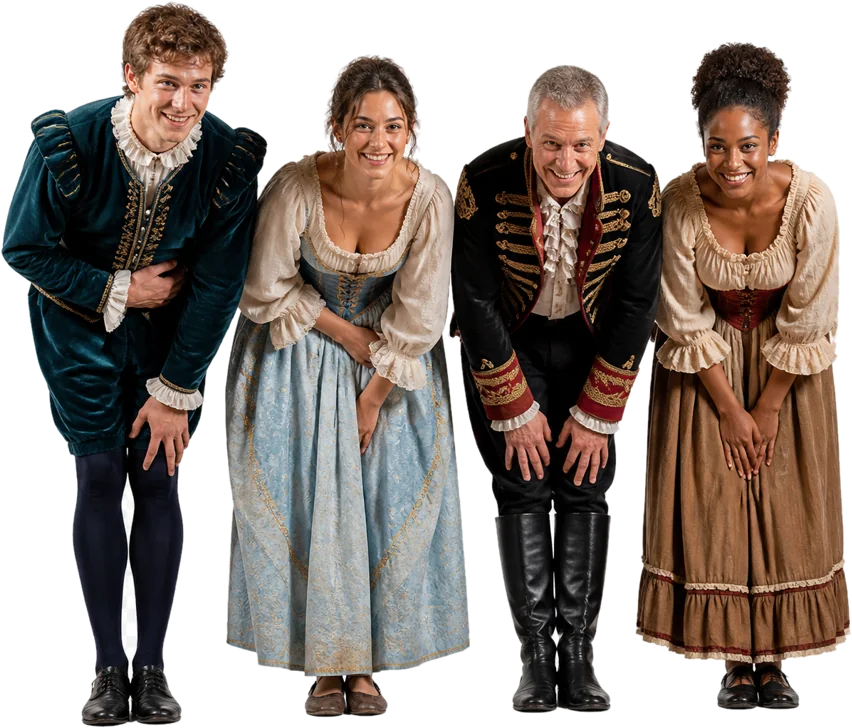
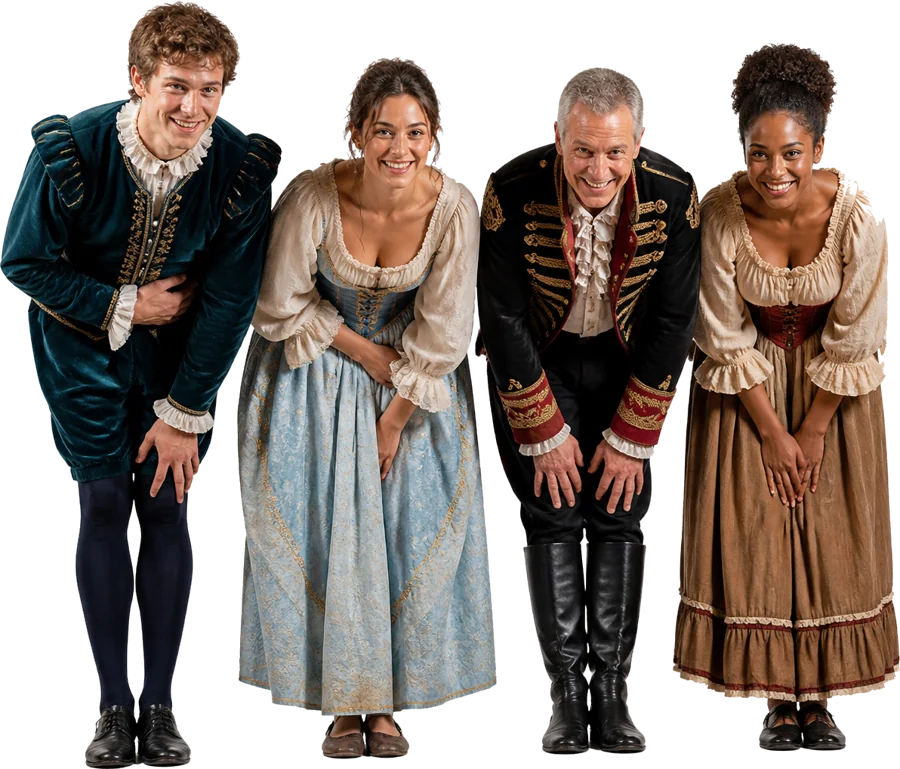
Verbeugung: bessere Fassung mit echter Transparenz

diff --git a/site/index.html b/site/index.html
@@ -11,9 +11,9 @@
 <link rel="preconnect" href="https://fonts.googleapis.com">
 <link rel="preconnect" href="https://fonts.gstatic.com" crossorigin>
 <link href="https://fonts.googleapis.com/css2?family=Cormorant+Garamond:ital,wght@0,400;0,500;0,600;1,400;1,500&family=Jost:wght@300;400;500&family=Caveat:wght@500&display=swap" rel="stylesheet">
-<link rel="stylesheet" href="assets/styles.css?v=20261122104428">
-<link rel="stylesheet" href="assets/galerie.css?v=20261122104428">
-<link rel="stylesheet" href="assets/gold.css?v=20261122104428">
+<link rel="stylesheet" href="assets/styles.css?v=20261122105136">
+<link rel="stylesheet" href="assets/galerie.css?v=20261122105136">
+<link rel="stylesheet" href="assets/gold.css?v=20261122105136">
 <script>try{var d=localStorage.getItem('design');if(d==='galerie'||d==='gold'){document.documentElement.dataset.design=d;document.write('<link id="galerie-schrift" rel="stylesheet" href="https://fonts.googleapis.com/css2?family=Inter+Tight:wght@400;500;600&family=IBM+Plex+Mono:wght@400;500&display=swap">')}}catch(e){}</script>
 </head>
 <body class="seite-start">
@@ -203,7 +203,7 @@
 
 <section class="karte-ticket">
   <div class="huelle">
-    <img class="ticket-figur" src="assets/img/neu/verbeugung.webp" alt="" aria-hidden="true" width="852" height="728" loading="lazy">
+    <img class="ticket-figur" src="assets/img/neu/verbeugung.webp" alt="" aria-hidden="true" width="900" height="769" loading="lazy">
     <div class="ticket erscheint">
       <div>
         <span class="etikett">Ihre Anfrage</span>
@@ -249,6 +249,6 @@
   </div>
 </footer>
 <button class="design-wahl" type="button" aria-label="Design wechseln"><i aria-hidden="true"></i>Design: <b>Bühne</b></button>
-<script src="assets/script.js?v=20261122104428"></script>
+<script src="assets/script.js?v=20261122105136"></script>
 </body>
 </html>

diff --git a/site/datenschutz.html b/site/datenschutz.html
@@ -11,9 +11,9 @@
 <link rel="preconnect" href="https://fonts.googleapis.com">
 <link rel="preconnect" href="https://fonts.gstatic.com" crossorigin>
 <link href="https://fonts.googleapis.com/css2?family=Cormorant+Garamond:ital,wght@0,400;0,500;0,600;1,400;1,500&family=Jost:wght@300;400;500&family=Caveat:wght@500&display=swap" rel="stylesheet">
-<link rel="stylesheet" href="assets/styles.css?v=20261122104428">
-<link rel="stylesheet" href="assets/galerie.css?v=20261122104428">
-<link rel="stylesheet" href="assets/gold.css?v=20261122104428">
+<link rel="stylesheet" href="assets/styles.css?v=20261122105136">
+<link rel="stylesheet" href="assets/galerie.css?v=20261122105136">
+<link rel="stylesheet" href="assets/gold.css?v=20261122105136">
 <script>try{var d=localStorage.getItem('design');if(d==='galerie'||d==='gold'){document.documentElement.dataset.design=d;document.write('<link id="galerie-schrift" rel="stylesheet" href="https://fonts.googleapis.com/css2?family=Inter+Tight:wght@400;500;600&family=IBM+Plex+Mono:wght@400;500&display=swap">')}}catch(e){}</script>
 </head>
 <body class="seite-datenschutz">
@@ -99,6 +99,6 @@
   </div>
 </footer>
 <button class="design-wahl" type="button" aria-label="Design wechseln"><i aria-hidden="true"></i>Design: <b>Bühne</b></button>
-<script src="assets/script.js?v=20261122104428"></script>
+<script src="assets/script.js?v=20261122105136"></script>
 </body>
 </html>

diff --git a/site/workshops.html b/site/workshops.html
@@ -11,9 +11,9 @@
 <link rel="preconnect" href="https://fonts.googleapis.com">
 <link rel="preconnect" href="https://fonts.gstatic.com" crossorigin>
 <link href="https://fonts.googleapis.com/css2?family=Cormorant+Garamond:ital,wght@0,400;0,500;0,600;1,400;1,500&family=Jost:wght@300;400;500&family=Caveat:wght@500&display=swap" rel="stylesheet">
-<link rel="stylesheet" href="assets/styles.css?v=20261122104428">
-<link rel="stylesheet" href="assets/galerie.css?v=20261122104428">
-<link rel="stylesheet" href="assets/gold.css?v=20261122104428">
+<link rel="stylesheet" href="assets/styles.css?v=20261122105136">
+<link rel="stylesheet" href="assets/galerie.css?v=20261122105136">
+<link rel="stylesheet" href="assets/gold.css?v=20261122105136">
 <script>try{var d=localStorage.getItem('design');if(d==='galerie'||d==='gold'){document.documentElement.dataset.design=d;document.write('<link id="galerie-schrift" rel="stylesheet" href="https://fonts.googleapis.com/css2?family=Inter+Tight:wght@400;500;600&family=IBM+Plex+Mono:wght@400;500&display=swap">')}}catch(e){}</script>
 </head>
 <body class="seite-workshops">
@@ -263,6 +263,6 @@
   </div>
 </footer>
 <button class="design-wahl" type="button" aria-label="Design wechseln"><i aria-hidden="true"></i>Design: <b>Bühne</b></button>
-<script src="assets/script.js?v=20261122104428"></script>
+<script src="assets/script.js?v=20261122105136"></script>
 </body>
 </html>

diff --git a/site/impressum.html b/site/impressum.html
@@ -11,9 +11,9 @@
 <link rel="preconnect" href="https://fonts.googleapis.com">
 <link rel="preconnect" href="https://fonts.gstatic.com" crossorigin>
 <link href="https://fonts.googleapis.com/css2?family=Cormorant+Garamond:ital,wght@0,400;0,500;0,600;1,400;1,500&family=Jost:wght@300;400;500&family=Caveat:wght@500&display=swap" rel="stylesheet">
-<link rel="stylesheet" href="assets/styles.css?v=20261122104428">
-<link rel="stylesheet" href="assets/galerie.css?v=20261122104428">
-<link rel="stylesheet" href="assets/gold.css?v=20261122104428">
+<link rel="stylesheet" href="assets/styles.css?v=20261122105136">
+<link rel="stylesheet" href="assets/galerie.css?v=20261122105136">
+<link rel="stylesheet" href="assets/gold.css?v=20261122105136">
 <script>try{var d=localStorage.getItem('design');if(d==='galerie'||d==='gold'){document.documentElement.dataset.design=d;document.write('<link id="galerie-schrift" rel="stylesheet" href="https://fonts.googleapis.com/css2?family=Inter+Tight:wght@400;500;600&family=IBM+Plex+Mono:wght@400;500&display=swap">')}}catch(e){}</script>
 </head>
 <body class="seite-impressum">
@@ -96,6 +96,6 @@
   </div>
 </footer>
 <button class="design-wahl" type="button" aria-label="Design wechseln"><i aria-hidden="true"></i>Design: <b>Bühne</b></button>
-<script src="assets/script.js?v=20261122104428"></script>
+<script src="assets/script.js?v=20261122105136"></script>
 </body>
 </html>

diff --git a/site/stuecke.html b/site/stuecke.html
@@ -11,9 +11,9 @@
 <link rel="preconnect" href="https://fonts.googleapis.com">
 <link rel="preconnect" href="https://fonts.gstatic.com" crossorigin>
 <link href="https://fonts.googleapis.com/css2?family=Cormorant+Garamond:ital,wght@0,400;0,500;0,600;1,400;1,500&family=Jost:wght@300;400;500&family=Caveat:wght@500&display=swap" rel="stylesheet">
-<link rel="stylesheet" href="assets/styles.css?v=20261122104428">
-<link rel="stylesheet" href="assets/galerie.css?v=20261122104428">
-<link rel="stylesheet" href="assets/gold.css?v=20261122104428">
+<link rel="stylesheet" href="assets/styles.css?v=20261122105136">
+<link rel="stylesheet" href="assets/galerie.css?v=20261122105136">
+<link rel="stylesheet" href="assets/gold.css?v=20261122105136">
 <script>try{var d=localStorage.getItem('design');if(d==='galerie'||d==='gold'){document.documentElement.dataset.design=d;document.write('<link id="galerie-schrift" rel="stylesheet" href="https://fonts.googleapis.com/css2?family=Inter+Tight:wght@400;500;600&family=IBM+Plex+Mono:wght@400;500&display=swap">')}}catch(e){}</script>
 </head>
 <body class="seite-stuecke">
@@ -256,6 +256,6 @@
   </div>
 </footer>
 <button class="design-wahl" type="button" aria-label="Design wechseln"><i aria-hidden="true"></i>Design: <b>Bühne</b></button>
-<script src="assets/script.js?v=20261122104428"></script>
+<script src="assets/script.js?v=20261122105136"></script>
 </body>
 </html>

diff --git a/site/buehne.html b/site/buehne.html
@@ -11,9 +11,9 @@
 <link rel="preconnect" href="https://fonts.googleapis.com">
 <link rel="preconnect" href="https://fonts.gstatic.com" crossorigin>
 <link href="https://fonts.googleapis.com/css2?family=Cormorant+Garamond:ital,wght@0,400;0,500;0,600;1,400;1,500&family=Jost:wght@300;400;500&family=Caveat:wght@500&display=swap" rel="stylesheet">
-<link rel="stylesheet" href="assets/styles.css?v=20261122104428">
-<link rel="stylesheet" href="assets/galerie.css?v=20261122104428">
-<link rel="stylesheet" href="assets/gold.css?v=20261122104428">
+<link rel="stylesheet" href="assets/styles.css?v=20261122105136">
+<link rel="stylesheet" href="assets/galerie.css?v=20261122105136">
+<link rel="stylesheet" href="assets/gold.css?v=20261122105136">
 <script>try{var d=localStorage.getItem('design');if(d==='galerie'||d==='gold'){document.documentElement.dataset.design=d;document.write('<link id="galerie-schrift" rel="stylesheet" href="https://fonts.googleapis.com/css2?family=Inter+Tight:wght@400;500;600&family=IBM+Plex+Mono:wght@400;500&display=swap">')}}catch(e){}</script>
 </head>
 <body class="seite-buehne">
@@ -305,6 +305,6 @@
   </div>
 </footer>
 <button class="design-wahl" type="button" aria-label="Design wechseln"><i aria-hidden="true"></i>Design: <b>Bühne</b></button>
-<script src="assets/script.js?v=20261122104428"></script>
+<script src="assets/script.js?v=20261122105136"></script>
 </body>
 </html>

diff --git a/site/ueber-mich.html b/site/ueber-mich.html
@@ -11,9 +11,9 @@
 <link rel="preconnect" href="https://fonts.googleapis.com">
 <link rel="preconnect" href="https://fonts.gstatic.com" crossorigin>
 <link href="https://fonts.googleapis.com/css2?family=Cormorant+Garamond:ital,wght@0,400;0,500;0,600;1,400;1,500&family=Jost:wght@300;400;500&family=Caveat:wght@500&display=swap" rel="stylesheet">
-<link rel="stylesheet" href="assets/styles.css?v=20261122104428">
-<link rel="stylesheet" href="assets/galerie.css?v=20261122104428">
-<link rel="stylesheet" href="assets/gold.css?v=20261122104428">
+<link rel="stylesheet" href="assets/styles.css?v=20261122105136">
+<link rel="stylesheet" href="assets/galerie.css?v=20261122105136">
+<link rel="stylesheet" href="assets/gold.css?v=20261122105136">
 <script>try{var d=localStorage.getItem('design');if(d==='galerie'||d==='gold'){document.documentElement.dataset.design=d;document.write('<link id="galerie-schrift" rel="stylesheet" href="https://fonts.googleapis.com/css2?family=Inter+Tight:wght@400;500;600&family=IBM+Plex+Mono:wght@400;500&display=swap">')}}catch(e){}</script>
 </head>
 <body class="seite-ueber">
@@ -183,6 +183,6 @@
   </div>
 </footer>
 <button class="design-wahl" type="button" aria-label="Design wechseln"><i aria-hidden="true"></i>Design: <b>Bühne</b></button>
-<script src="assets/script.js?v=20261122104428"></script>
+<script src="assets/script.js?v=20261122105136"></script>
 </body>
 </html>

diff --git a/site/buch.html b/site/buch.html
@@ -11,9 +11,9 @@
 <link rel="preconnect" href="https://fonts.googleapis.com">
 <link rel="preconnect" href="https://fonts.gstatic.com" crossorigin>
 <link href="https://fonts.googleapis.com/css2?family=Cormorant+Garamond:ital,wght@0,400;0,500;0,600;1,400;1,500&family=Jost:wght@300;400;500&family=Caveat:wght@500&display=swap" rel="stylesheet">
-<link rel="stylesheet" href="assets/styles.css?v=20261122104428">
-<link rel="stylesheet" href="assets/galerie.css?v=20261122104428">
-<link rel="stylesheet" href="assets/gold.css?v=20261122104428">
+<link rel="stylesheet" href="assets/styles.css?v=20261122105136">
+<link rel="stylesheet" href="assets/galerie.css?v=20261122105136">
+<link rel="stylesheet" href="assets/gold.css?v=20261122105136">
 <script>try{var d=localStorage.getItem('design');if(d==='galerie'||d==='gold'){document.documentElement.dataset.design=d;document.write('<link id="galerie-schrift" rel="stylesheet" href="https://fonts.googleapis.com/css2?family=Inter+Tight:wght@400;500;600&family=IBM+Plex+Mono:wght@400;500&display=swap">')}}catch(e){}</script>
 </head>
 <body class="seite-buch">
@@ -219,6 +219,6 @@
   </div>
 </footer>
 <button class="design-wahl" type="button" aria-label="Design wechseln"><i aria-hidden="true"></i>Design: <b>Bühne</b></button>
-<script src="assets/script.js?v=20261122104428"></script>
+<script src="assets/script.js?v=20261122105136"></script>
 </body>
 </html>

diff --git a/bauen.py b/bauen.py
@@ -203,7 +203,7 @@ def bauen():
             for k in t:
                 if k in meta:
                     t[k] = meta[k]
-            t["ticket_figur"] = '\n    <img class="ticket-figur" src="assets/img/neu/verbeugung.webp" alt="" aria-hidden="true" width="852" height="728" loading="lazy">' if aktiv == "start" else ""
+            t["ticket_figur"] = '\n    <img class="ticket-figur" src="assets/img/neu/verbeugung.webp" alt="" aria-hidden="true" width="900" height="769" loading="lazy">' if aktiv == "start" else ""
             ticket = TICKET.format(**t)
         html = KOPF.format(
             titel=meta['titel'], beschreibung=meta['beschreibung'], aktiv=aktiv or 'start', version=VERSION,
